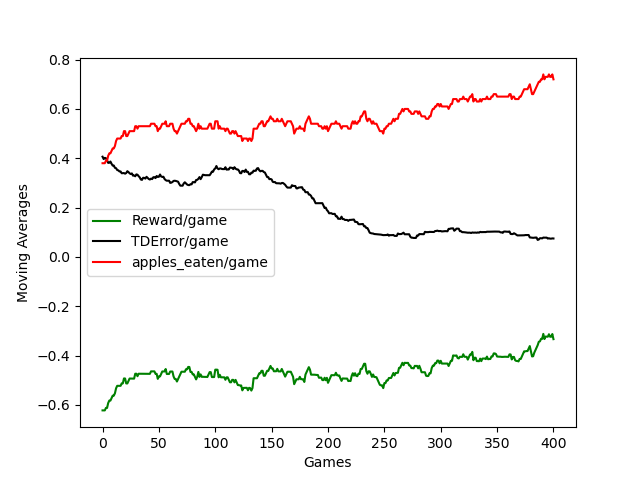
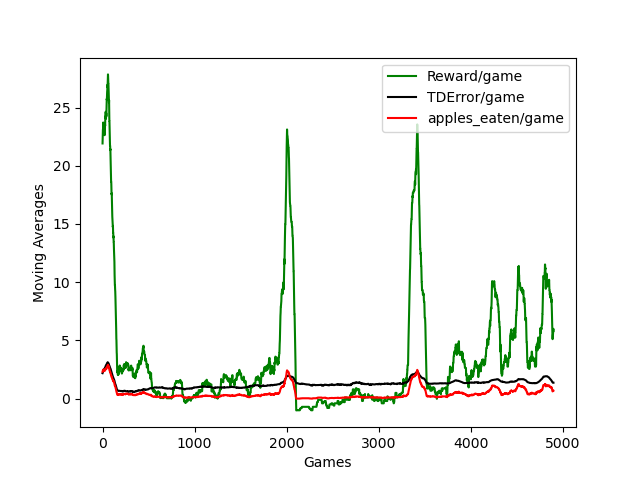
td done

diff --git a/agents/td.py b/agents/td.py
@@ -60,7 +60,7 @@ class TD:
     state = state.unsqueeze(0)
     return state
 
-  def best_move(self,env,g,c=10,online=False):
+  def best_move(self,env,g,online=False):
     moves = env.valid_moves()
     #print(moves)
     utility = {}
@@ -70,7 +70,7 @@ class TD:
       new_state = self.get_state(new_env)
       utility[move] = self.value(new_state).detach().item() 
     greedy = max(utility,key=utility.get)
-    epsilon = c * math.sqrt(math.log(g+1))/(g+1)
+    epsilon =  epsilon = max(0.05, 0.2 * math.exp(-0.0005 * g))
     if random.random() < epsilon and not online: 
       return random.choice(moves)
     return greedy
@@ -91,8 +91,8 @@ class TD:
     env = Env(self.height,self.width)
     reward = 0
     lambd = 0.7
-    gamma = 0.8
-    alpha = 0.01
+    gamma = 0.9
+    alpha = 0.001
     apples_eaten = []
     net_rewards = []
     avg_td_errors = []
@@ -102,6 +102,7 @@ class TD:
       net_reward = 0
       total_td_error = 0
       apples = 0
+      movecount = 0
       steps = 0
       env.reset()
       for e in self.E_params:
@@ -114,7 +115,11 @@ class TD:
         '''if g<6:
           print(f"chose {move}")'''
         reward = env.step(move,show=False)
-        if reward == 1:
+        if movecount>100:
+          env.gameover = True
+          reward = -1
+        movecount += 1
+        if reward > 1:
           apples += 1
         steps += 1
         net_reward += reward
@@ -136,6 +141,7 @@ class TD:
             #return "shit"
             e.data = gamma * lambd * e.data + param.grad.data
             e.data = torch.clamp(e.data, -1e2, 1e2)
+            torch.nn.utils.clip_grad_norm_(self.value.parameters(), max_norm=1.0)
             param.data += alpha * td_error.item() * e.data
            
         '''if env.gameover:

diff --git a/env/env.py b/env/env.py
@@ -56,7 +56,7 @@ class Env:
         tmp = direction
         tail_x,tail_y,dir = 0,0,None
         ate_apple = False
-        reward = -0.0001
+        reward = -0.01
         for i in range(len(self.snake)):
             dir = self.snake[i][2]
             if(dir == 'u'):
@@ -78,7 +78,7 @@ class Env:
                 tail_x = self.snake[len(self.snake)-1][0]
                 tail_y = self.snake[len(self.snake)-1][1]
                 dir = self.snake[-1][2]
-                reward = 1
+                reward = 10
             if(i!=0 and self.snake[0][0] == self.snake[i][0] and self.snake[0][1] == self.snake[i][1]):
                 self.gameover = True
                 if show :print("snake ate itself")
@@ -113,6 +113,7 @@ class Env:
             if len(self.snake) == self.height*self.width:
                 self.gameover = True
                 self.apple_x,self.apple_y = None,None
+                reward = 20
             self.apple_x,self.apple_y = self.make_apple()
 
         return reward
